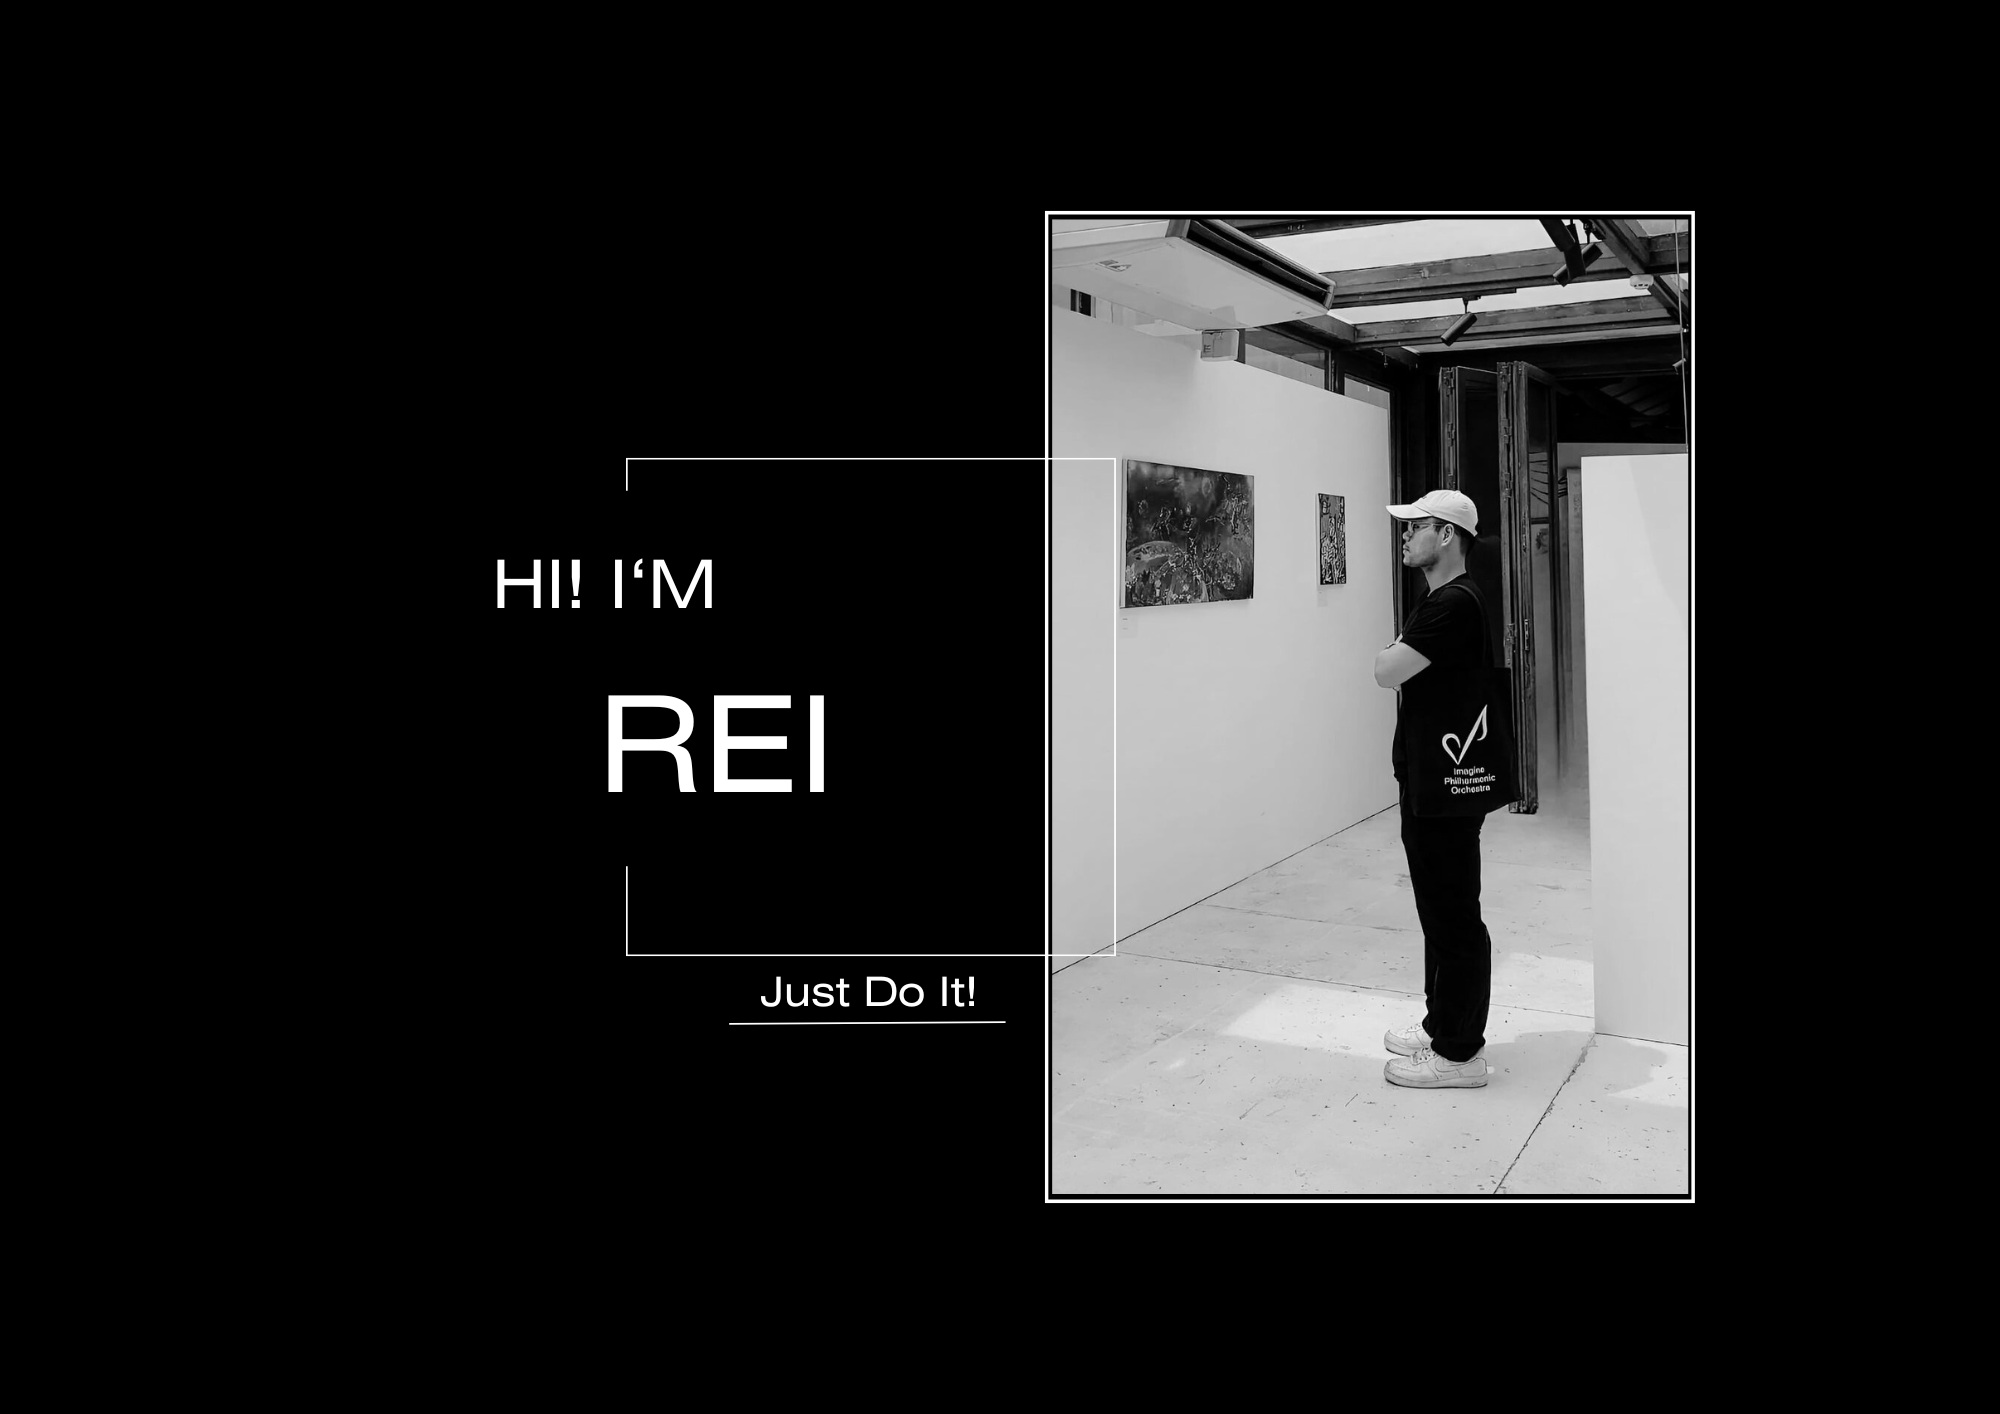
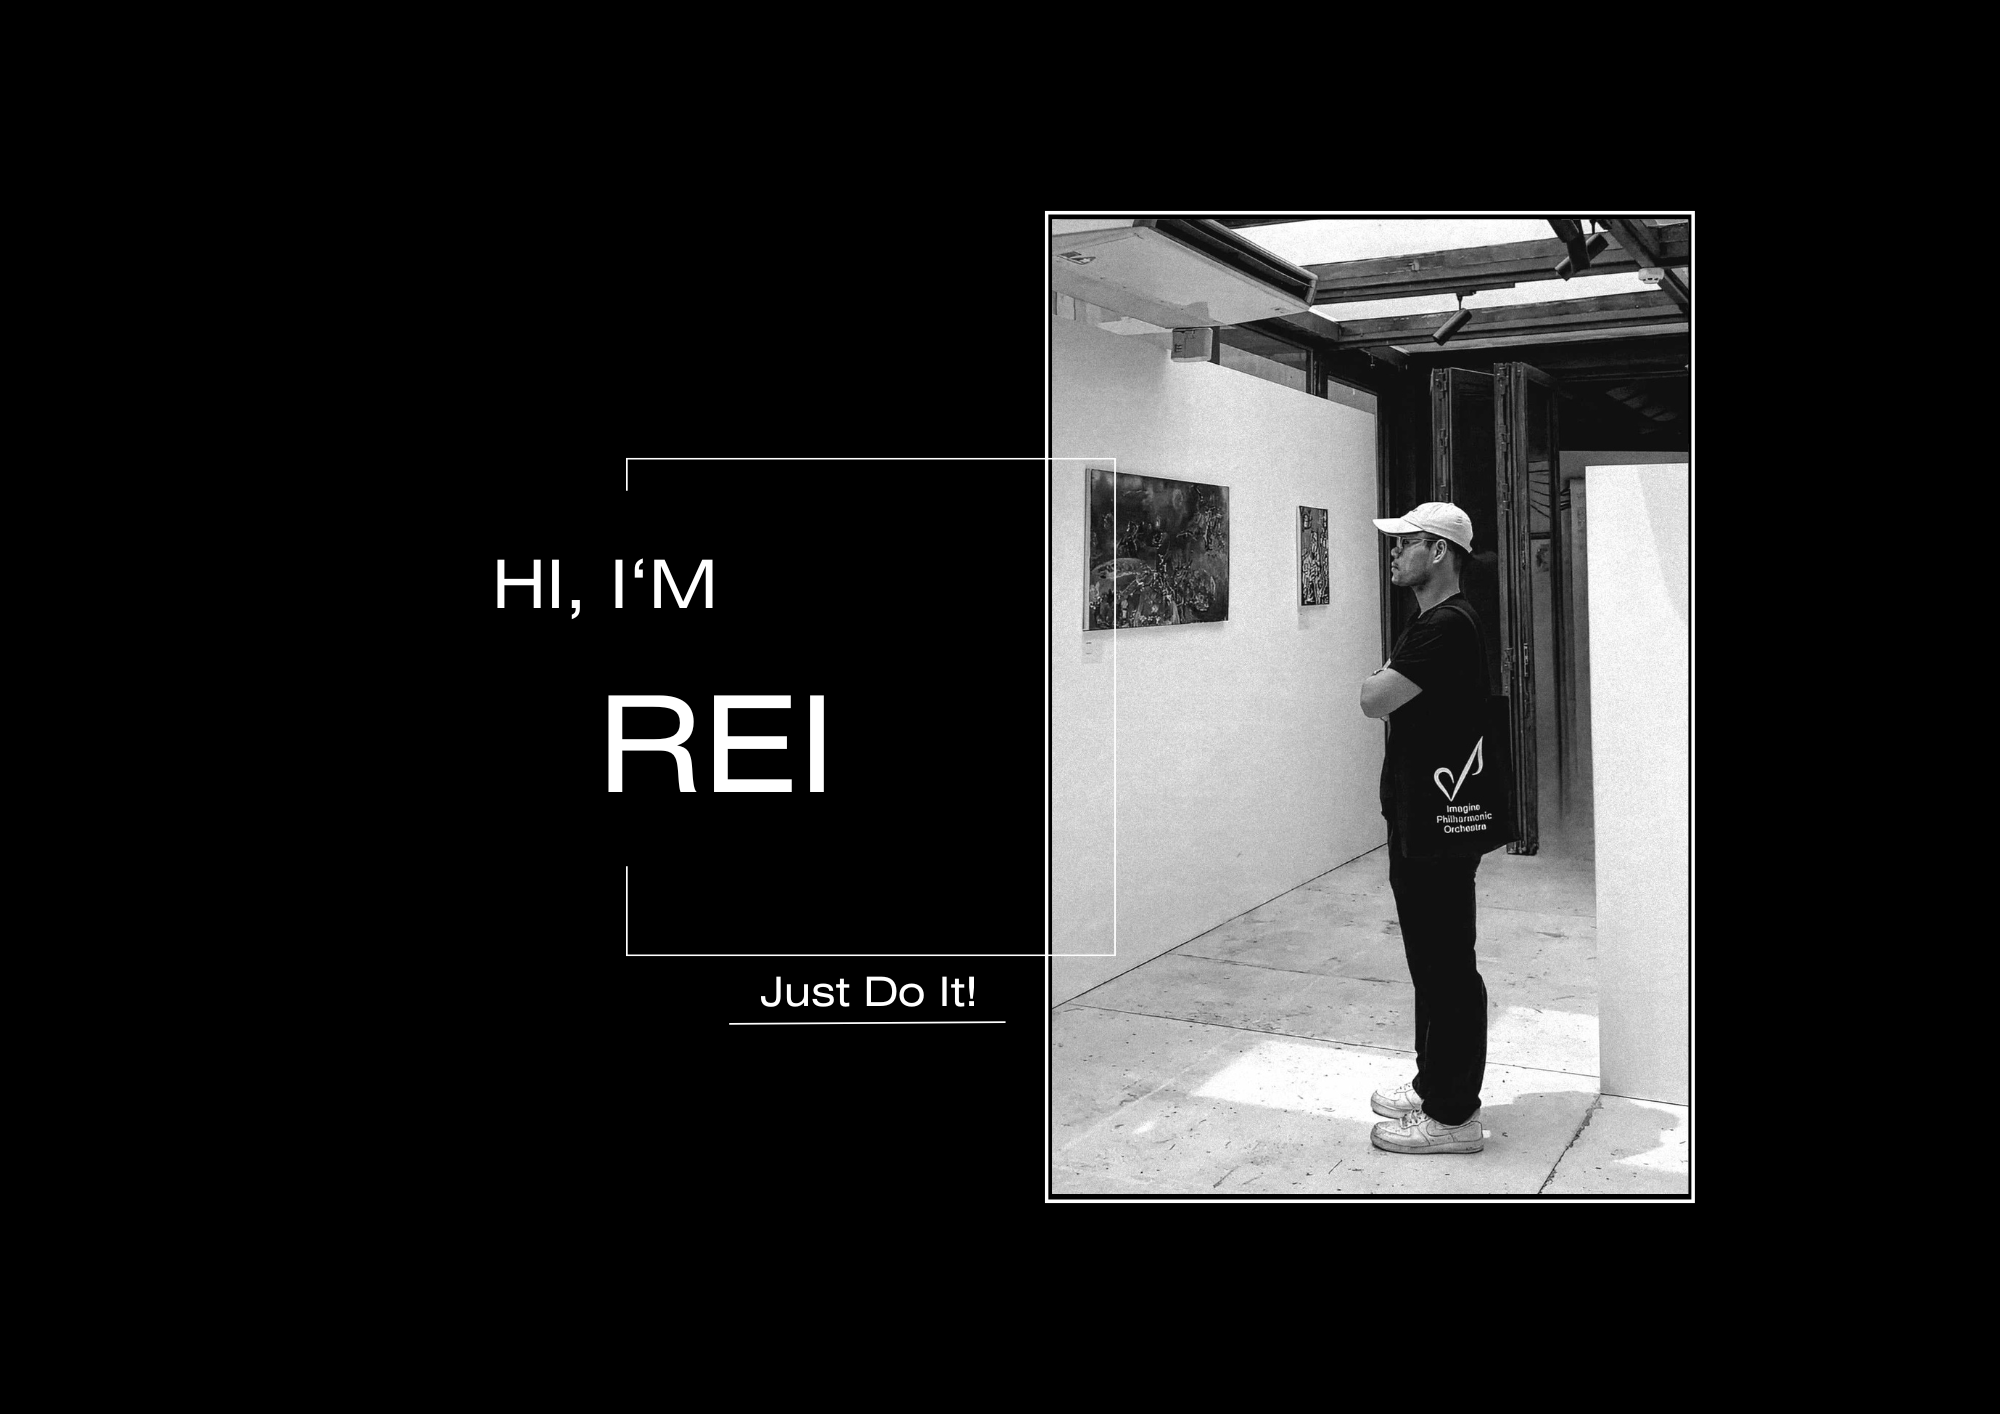
chinh cai hinh lần 5

Changed region(s): [[0.527, 0.1556, 0.868, 0.8402], [0.527, 0.6846, 0.558, 0.7157]]

diff --git a/html/index.html b/html/index.html
@@ -38,7 +38,7 @@
     <!-- Main Intro -->
     <section>
       <div class="container Porfolio-pic-main">
-        <img src="/img/Porfolio-option3.png" alt="">
+        <img src="/img/Porfolio-option2.png" alt="">
       </div>
      </section>
      <!-- Intro-navbar -->
@@ -107,6 +107,12 @@
       </nav>
       <hr style="color: white; font-size: 30px; margin-bottom: 60px;margin-top: 30px;" />
     </section>
+    <!-- Project Section -->
+     <section class="Projects">
+        <div class="container">
+            <img src="/img/Project-background.jpg" alt="" style="border: 1px white solid;border-radius: 20px;">
+        </div>
+     </section>
     <script
       src="https://cdn.jsdelivr.net/npm/@popperjs/core@2.11.8/dist/umd/popper.min.js"
       integrity="sha384-I7E8VVD/ismYTF4hNIPjVp/Zjvgyol6VFvRkX/vR+Vc4jQkC+hVqc2pM8ODewa9r"
